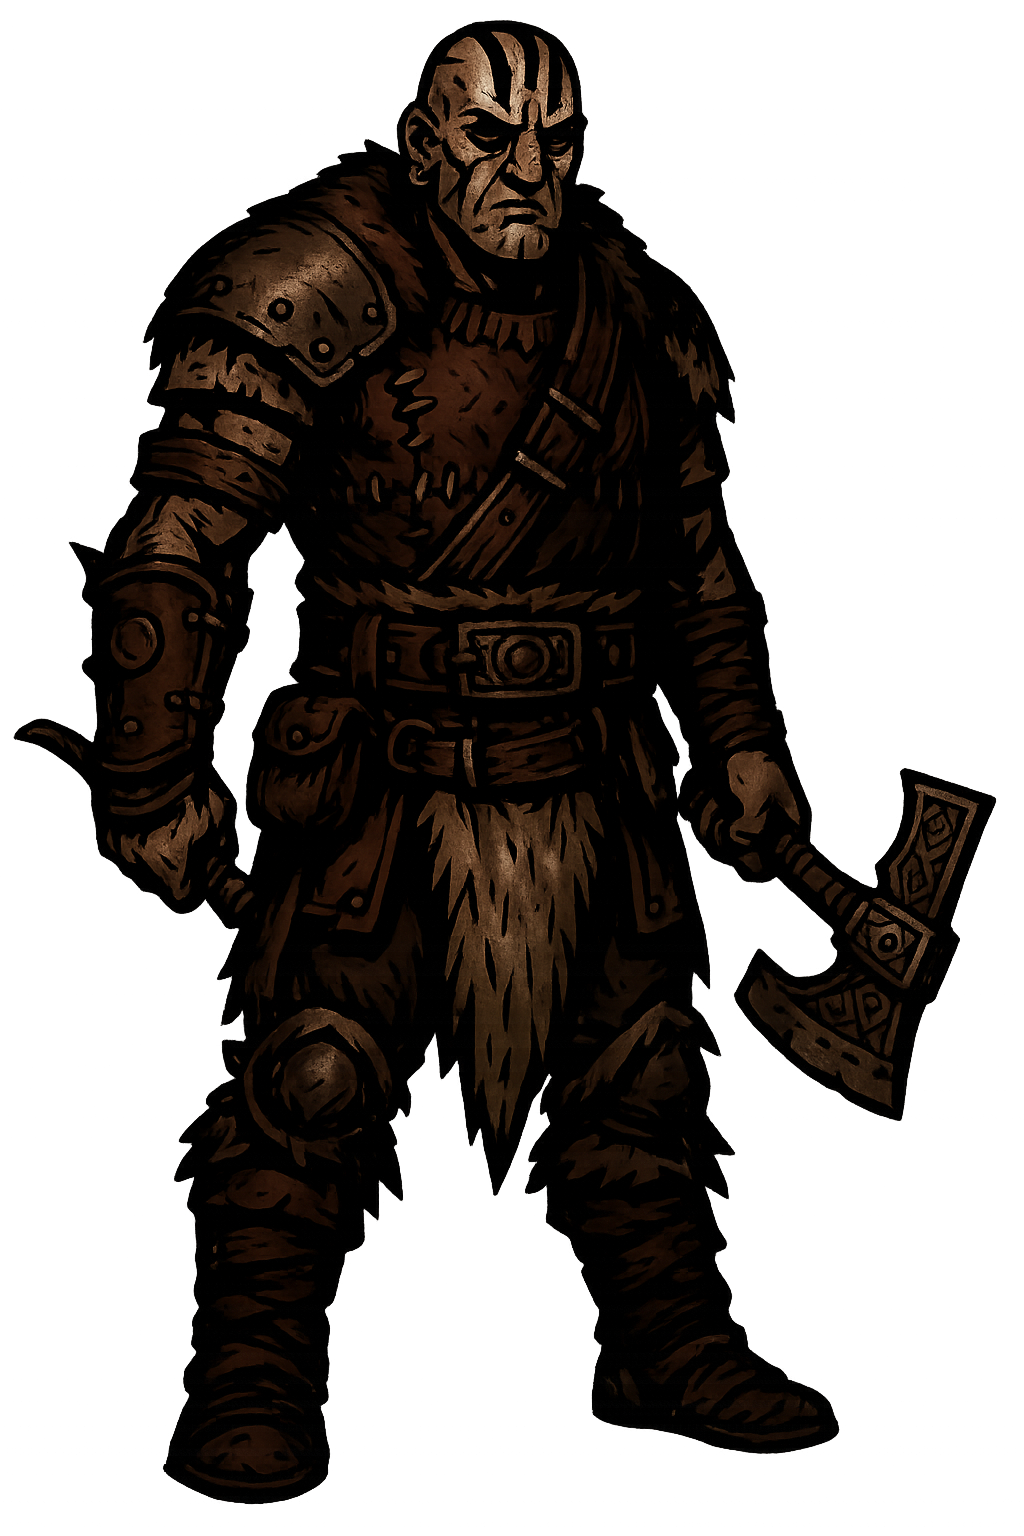
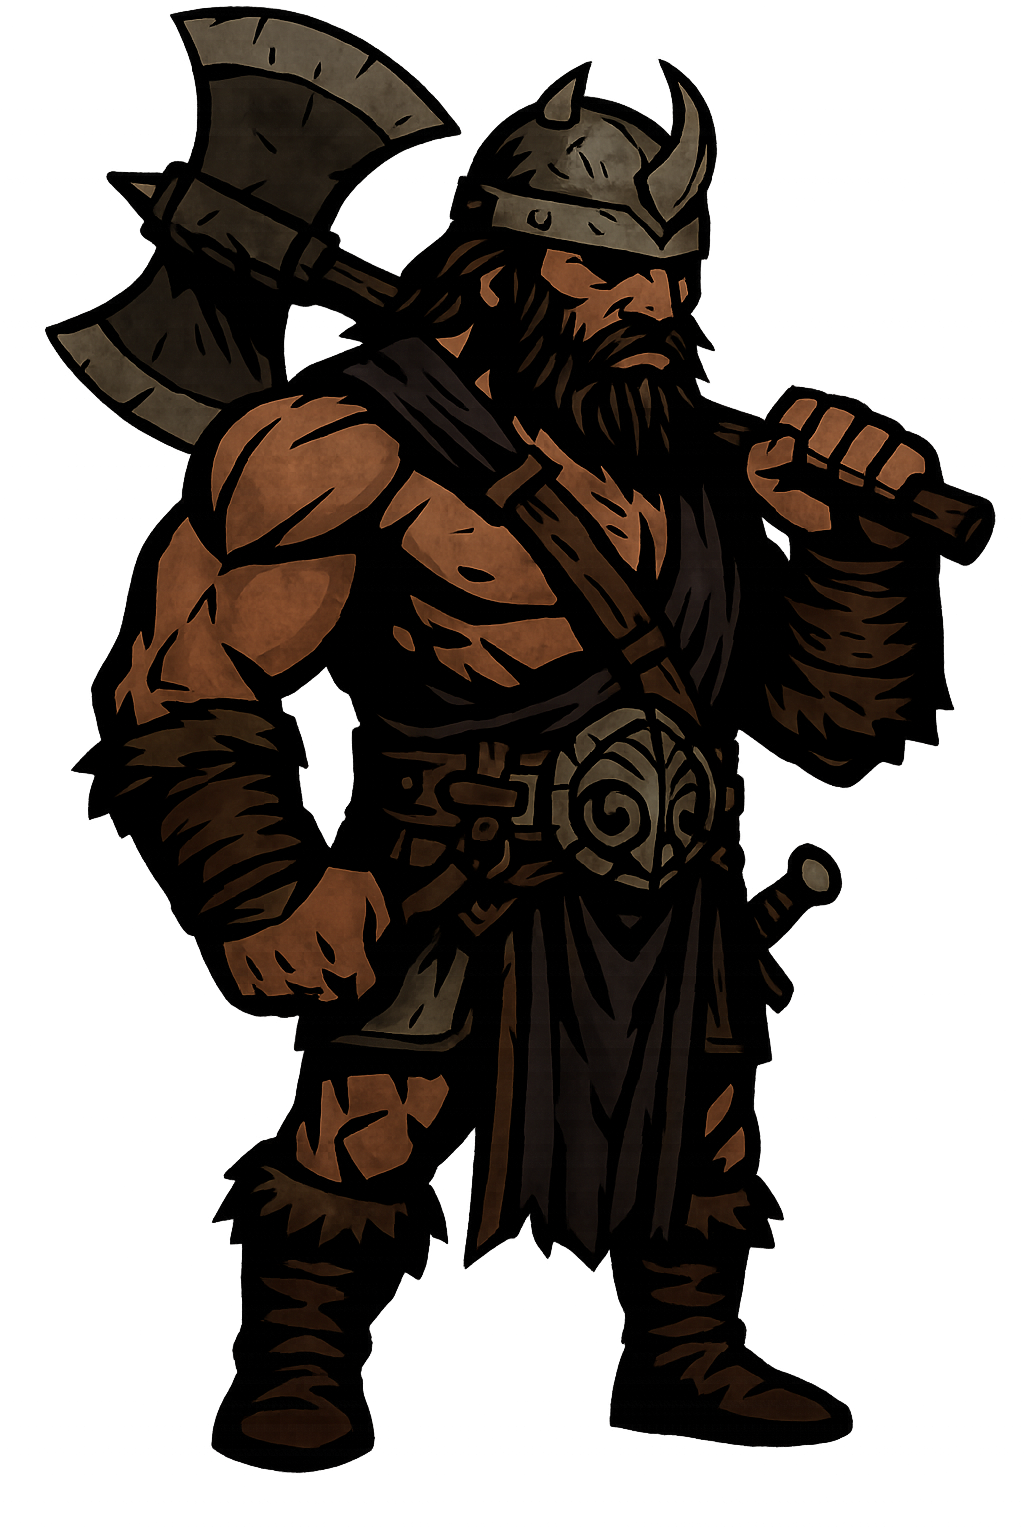
Sprites añadidos
Sprites de las clases

diff --git a/Assets/Scripst/Logica/UI/CharacterSlot.cs b/Assets/Scripst/Logica/UI/CharacterSlot.cs
@@ -15,7 +15,7 @@ public class CharacterSlot : MonoBehaviour
         characterImage = GetComponent<Image>();
     }
 
-    public void LoadCharacter(Character c)
+    public void LoadCharacter(Character c, bool isAlly)
     {
         character = c;
 
@@ -24,6 +24,11 @@ public class CharacterSlot : MonoBehaviour
             // Asignar imagen del personaje, por ejemplo desde un diccionario o recurso
             characterImage.sprite = c.CharacterImage;
             characterImage.color = Color.white; // Asegura que sea visible
+
+            if (!isAlly)
+            {
+                characterImage.rectTransform.rotation = new Quaternion (characterImage.rectTransform.rotation.x,180, characterImage.rectTransform.rotation.y, characterImage.rectTransform.rotation.w);
+            }
         }
         else
         {

diff --git a/Assets/Scripst/Logica/UI/TeamDisplayManager.cs b/Assets/Scripst/Logica/UI/TeamDisplayManager.cs
@@ -11,9 +11,9 @@ public class TeamDisplayManager : MonoBehaviour
         for (int i = 0; i < characterSlots.Length; i++)
         {
             if (i < team.Length)
-                characterSlots[i].LoadCharacter(team[i]);
+                characterSlots[i].LoadCharacter(team[i], isAllyTeam);
             else
-                characterSlots[i].LoadCharacter(null);
+                characterSlots[i].LoadCharacter(null, false);
         }
     }
 }

diff --git a/Assets/Scripst/Logica/UI/UI Manager.cs b/Assets/Scripst/Logica/UI/UI Manager.cs
@@ -48,7 +48,7 @@ public class UIManager : MonoBehaviour
 
     public void UpdateUI(Character current)
     {               
-
+        //Character in turn
         allyTexts["clase"].text = current.clase.ToString();
         allyTexts["hp"].text = $"HP: {current.Healt}/{current.MaxHealt}";
         allyTexts["ataque"].text = $"ATK: {current.Atk}";
